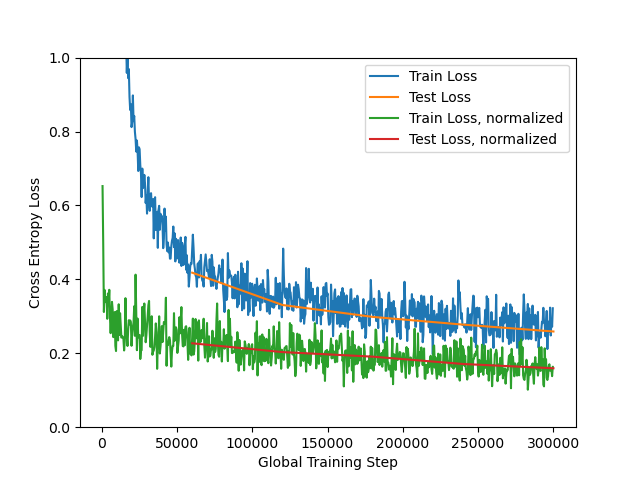
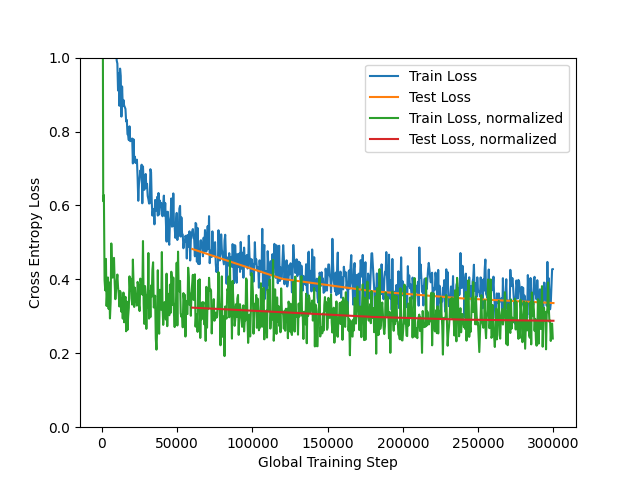
testing for cuda

diff --git a/assignment1/task4.py b/assignment1/task4.py
@@ -18,6 +18,7 @@ image_transform = torchvision.transforms.Compose([
     torchvision.transforms.ToTensor(),
     
 ])
+#image transform with normalization
 image_transformN = torchvision.transforms.Compose([
     torchvision.transforms.ToTensor(),
     torchvision.transforms.Normalize(
@@ -28,11 +29,15 @@ image_transformN = torchvision.transforms.Compose([
 
 dataloader_train, dataloader_test = dataloaders.load_dataset(
     batch_size, image_transform)
-dataloader_trainN, dataloader_testN = dataloaders.load_dataset(
-    batch_size, image_transformN)
 example_images, _ = next(iter(dataloader_train))
 print(f"The tensor containing the images has shape: {example_images.shape} (batch size, number of color channels, height, width)",
-      f"The maximum value in the image is {example_images.max()}, minimum: {example_images.min()}", sep="\n\t")
+    f"The maximum value in the image is {example_images.max()}, minimum: {example_images.min()}", sep="\n\t")
+#normalized dataset
+dataloader_trainN, dataloader_testN = dataloaders.load_dataset(
+    batch_size, image_transformN)
+example_imagesN, _ = next(iter(dataloader_train))
+print(f"The tensor containing the images has shape: {example_imagesN.shape} (batch size, number of color channels, height, width)",
+      f"The maximum value in the image is {example_imagesN.max()}, minimum: {example_imagesN.min()}", sep="\n\t")
 
 
 def create_model():
@@ -41,9 +46,10 @@ def create_model():
     """
     model = nn.Sequential(
         nn.Flatten(),  # Flattens the image from shape (batch_size, C, Height, width) to (batch_size, C*height*width)
-        nn.Linear(28*28*1, 64),
-        nn.ReLU(),
-        nn.Linear(8*8*1, 10)
+        nn.Linear(28*28*1, 10),
+        #nn.Linear(28*28*1, 64),
+        #nn.ReLU(),
+        #nn.Linear(8*8*1, 10)
         # No need to include softmax, as this is already combined in the loss function
     )
     # Transfer model to GPU memory if a GPU is available
@@ -95,6 +101,11 @@ trainerN = Trainer(
 train_loss_dict, test_loss_dict = trainer.train(num_epochs)
 train_loss_dictN, test_loss_dictN = trainerN.train(num_epochs)
 
+
+#task 4b
+weight = list(model.children())[1].weight.cpu().data
+print('Weights')
+print(weight)
 # We can now plot the training loss with our utility script
 
 # Plot loss
@@ -111,7 +122,7 @@ plt.savefig("image_solutions/task_4a_norm_d.png")
 
 plt.show()
 
-torch.save(model.state_dict(), "saved_model_d.torch")
+torch.save(model.state_dict(), "saved_model_b.torch")
 final_loss, final_acc = utils.compute_loss_and_accuracy(
     dataloader_test, model, loss_function)
 print(f"Final Test loss: {final_loss}. Final Test accuracy: {final_acc}")

diff --git a/assignment1/task2ab.py b/assignment1/task2ab.py
@@ -46,6 +46,6 @@ def inverse(im):
     return im
 
 im_greyscale_inverse = inverse(im_greyscale)
-save_im(output_dir.joinpath("lake_greyscale_inverse.jpg"), im_greyscale, cmap="gray")
+save_im(output_dir.joinpath("lake_greyscale_inverse.jpg"), im_greyscale_inverse, cmap="gray")
 plt.imshow(im_greyscale_inverse, cmap="gray")
 #plt.show()
